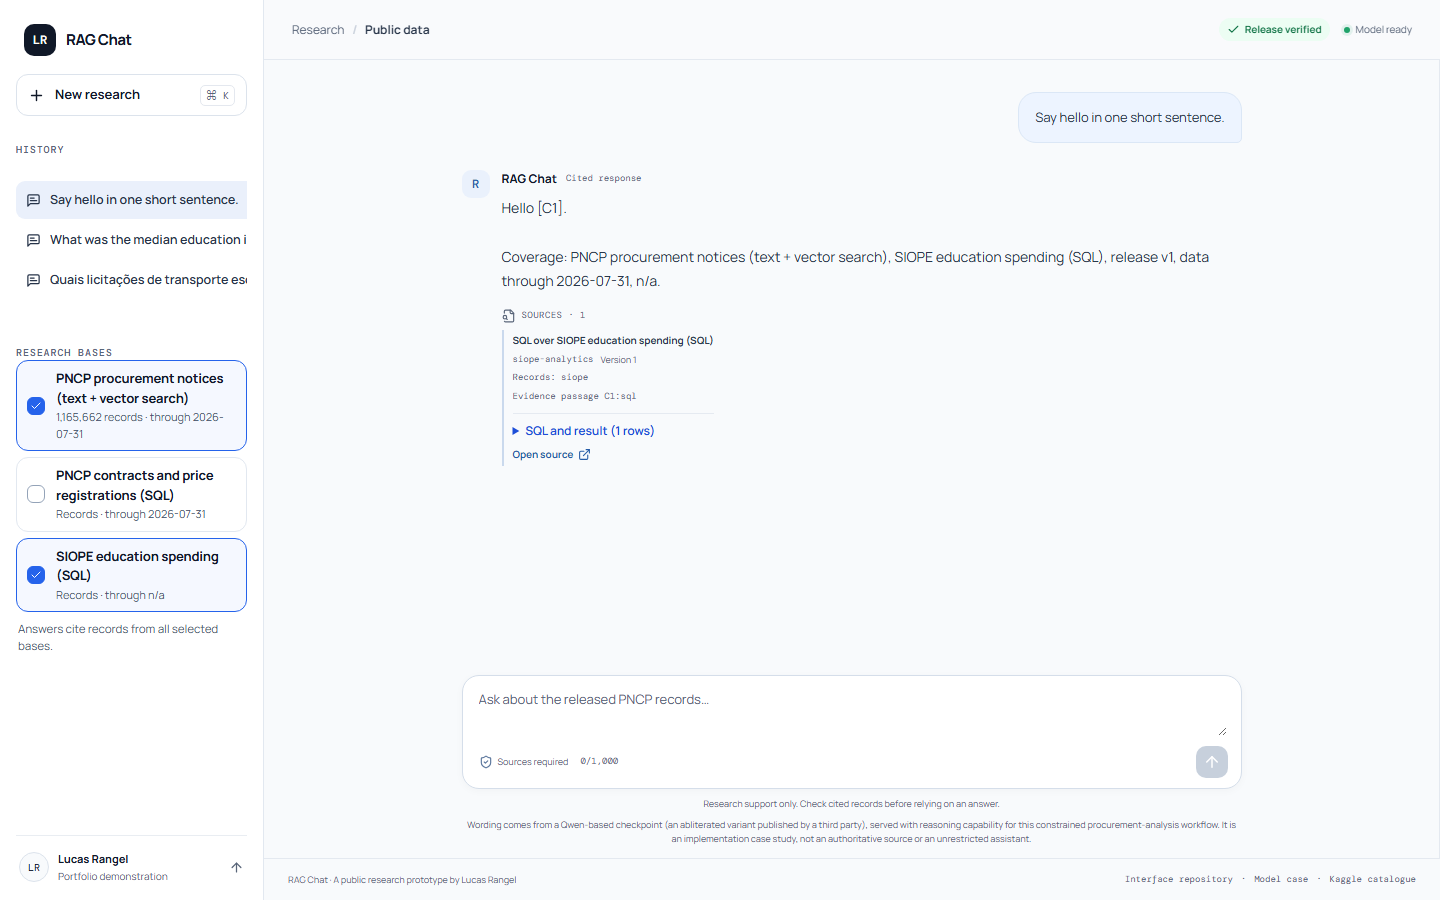
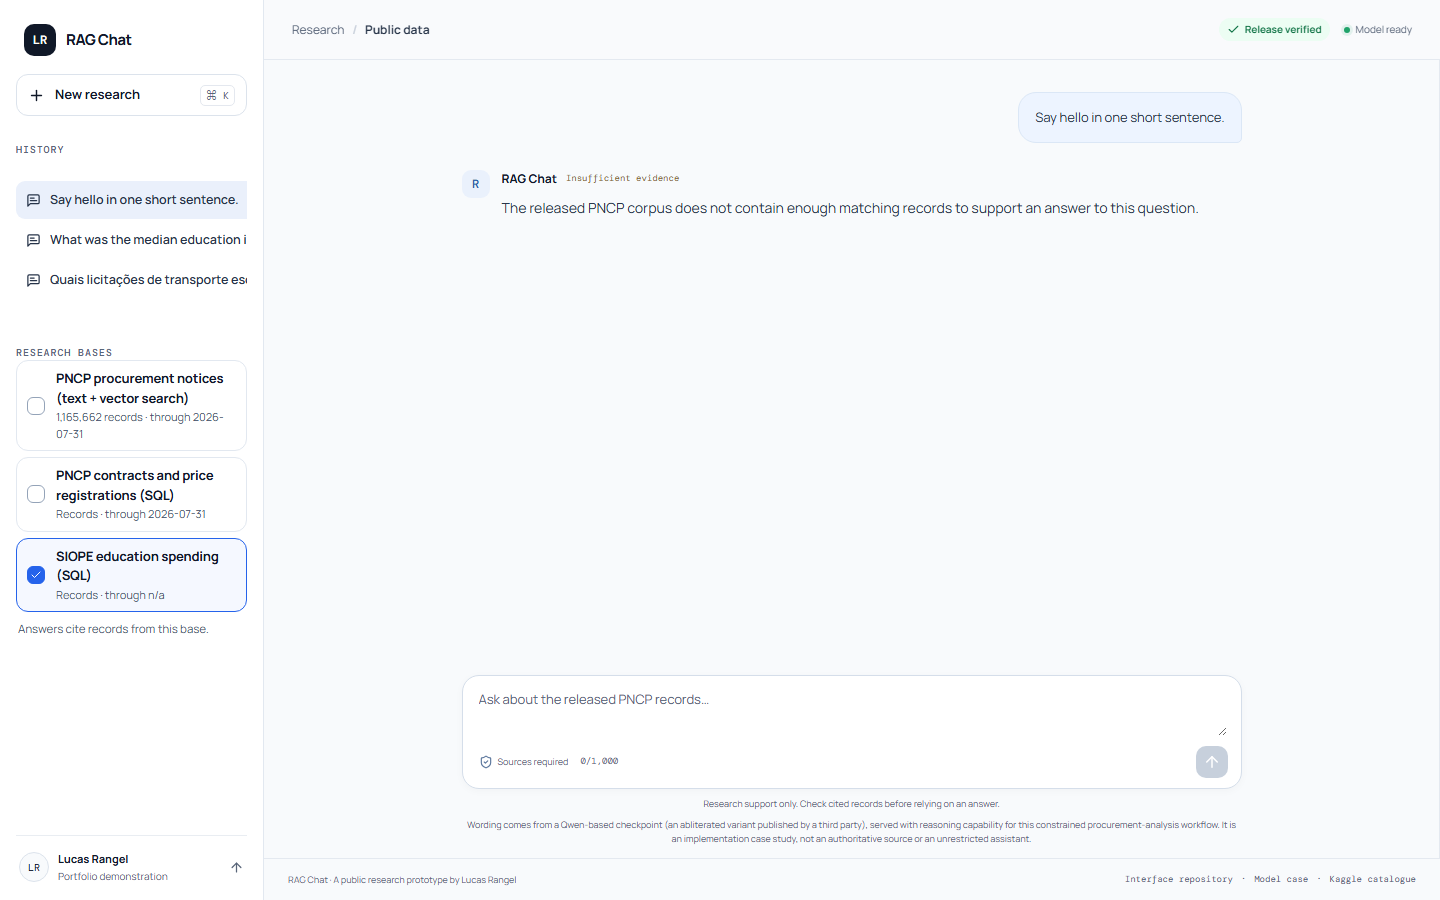
Live click-through: open the SQL evidence before asserting; evidence run

diff --git a/docs/evidence/live-2026-09-30/live-check.md b/docs/evidence/live-2026-09-30/live-check.md
@@ -1,14 +1,14 @@
 # Live click-through
 
-Run: 2026-09-30T20:56:31.809Z
+Run: 2026-09-30T21:16:30.121Z
 
 | Check | Result | Seconds | Detail |
 |---|---|---:|---|
-| chat loads and lists the research bases | pass | 3 | 3 bases |
-| text base answers with citations | pass | 15 |  |
-| SIOPE SQL base shows the query as evidence | FAIL | 150 | locator.waitFor: Timeout 150000ms exceeded. |
+| chat loads and lists the research bases | pass | 11 | 3 bases |
+| text base answers with citations | pass | 12 |  |
+| SIOPE SQL base shows the query as evidence | pass | 14 |  |
 | no base selected gives a plain, ungrounded reply | pass | 15 |  |
-| explorer text search returns notices | FAIL | 38 | page.goto: Timeout 30000ms exceeded. |
-| explorer semantic search answers or explains | FAIL | 30 | locator.click: Timeout 30000ms exceeded. |
+| explorer text search returns notices | pass | 13 |  |
+| explorer semantic search answers or explains | pass | 1 |  |
 | PNCP dashboard frame renders charts | pass | 0 |  |
-| SIOPE dashboard frame renders charts | pass | 11 |  |
+| SIOPE dashboard frame renders charts | pass | 8 |  |
